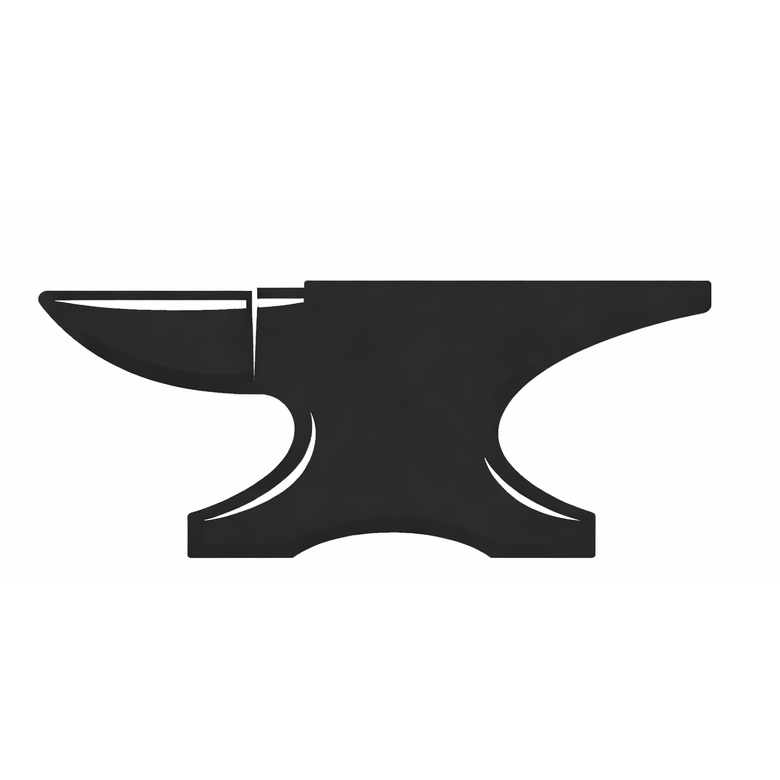
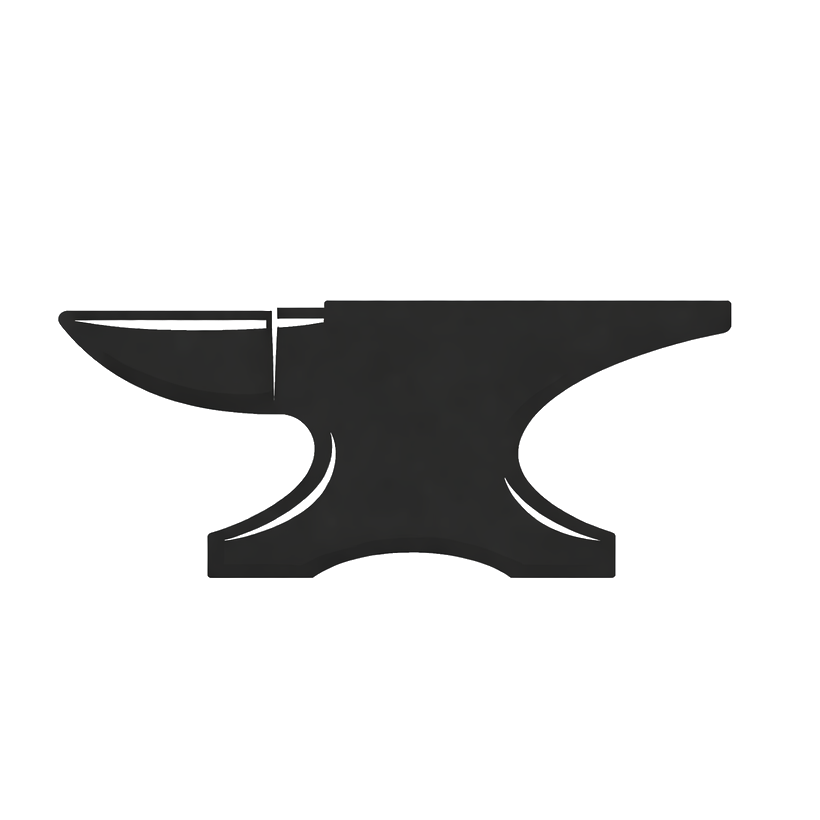
Burnt-orange FORGE + transparent anvil mark
- Swap brand.orange from #EA6B1F (bright orange) to #BF5700 (classic
  burnt orange). Darker, richer, reads better against the white header
- Make the anvil PNG's background transparent so the mark doesn't show
  a white box when the sticky header overlaps a colored section on
  scroll
- Rebuild the favicon as a transparent square centered on the anvil

diff --git a/tailwind.config.ts b/tailwind.config.ts
@@ -32,8 +32,9 @@ const config: Config = {
           "forge-light": "#F59E0B",
         },
         brand: {
-          orange: "#EA6B1F",
-          "orange-dark": "#C2560F",
+          orange: "#BF5700",
+          "orange-dark": "#8A3E00",
+          "orange-light": "#E07420",
           ink: "#1E1E1E",
         },
         ink: "#1F2937",
